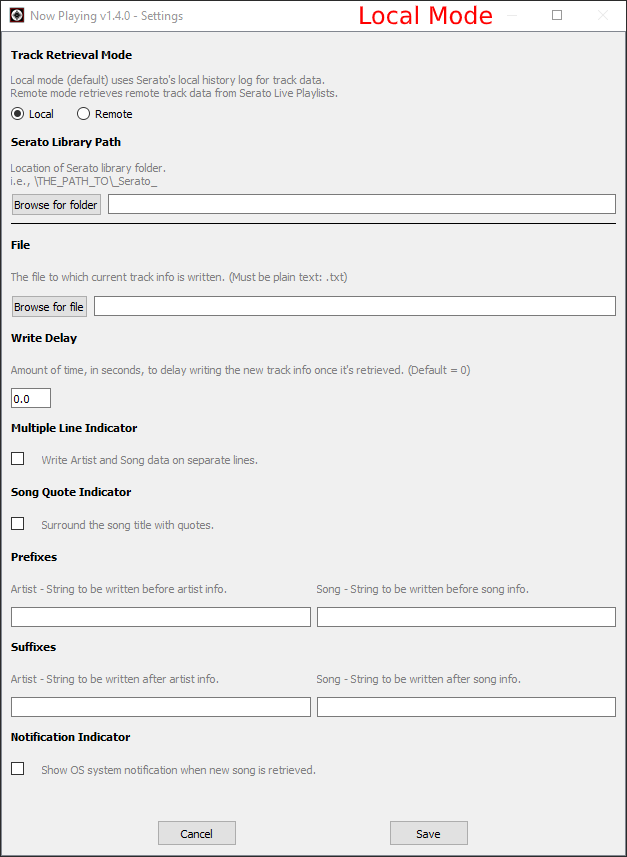
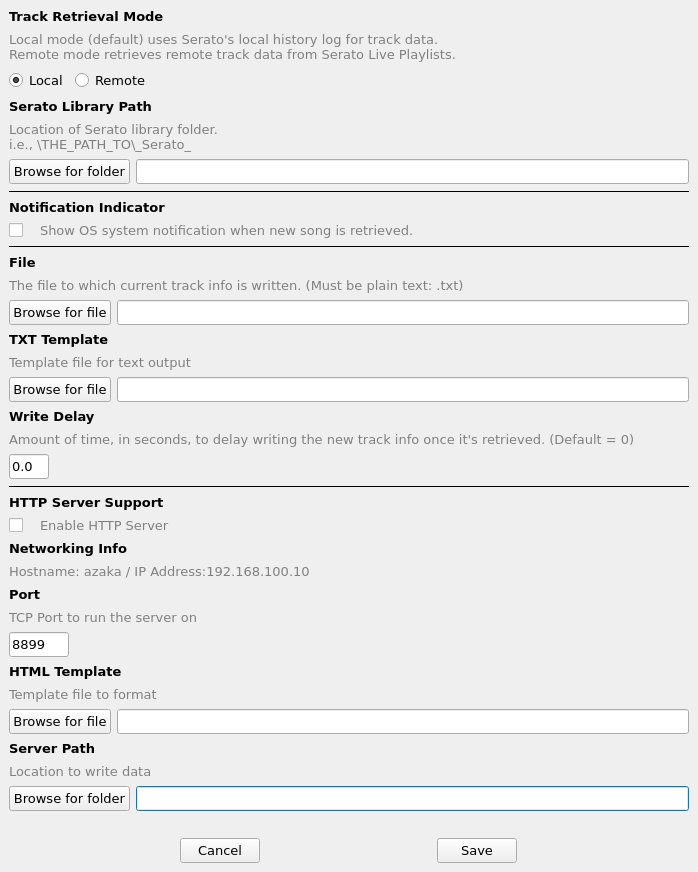
Another round of doc updates:
* Update images to reflect current Settings screen
* Make images relative links so branches work
  while updating docs :)
* Re-arrange some things
* Fix HTTP mode description and add more details
* Add some anchors
* Add some examples!

diff --git a/README.md b/README.md
@@ -60,15 +60,19 @@ Due to security measures in macOS Sierra and later, apps downloaded from outside
 * Unzip the package and copy the entire unzipped folder containing the 'SeratoNowPlaying.exe' file and supporting files to the directory you'd like the app to run from (i.e.: C:\Program Files).
 * Create a new, blank text file with the Notepad app or similar text editor. Name it as you please, and save this text file anywhere you like on your pc and close the text editor.
 
-### First time running the app
+## Usage
 
-That's it. Execute the app from the location where you placed it. On Windows, you may need to right-click and select "Run as Administrator'.
+Start the __Now Playing__ app.from the location where you placed it. On Windows, you may need to right-click and
+select "Run as Administrator'. The app is controlled and configured by accessing the menu from the icon in the
+Windows system tray or Mac menu bar after configuration.
 
-The first time you run the app a settings window will appear. Populate the fields accordingly and press save. Once saved, the app will start polling for new songs. The app can be controlled and exited from the system task tray on Windows or the menu bar icon on macOS.
+However, the first time you run the app a [Settings](#settings) window will appear. Populate the fields accordingly and press
+save. Once saved, the app will start polling for new songs. The app can be controlled and exited from the system task
+tray on Windows or the menu bar icon on macOS.
 
-![Task Tray](https://github.com/e1miran/Now-Playing-Serato/blob/master/git-images/systray.png?raw=true) Windows
+![Task Tray](git-images/systray.png?raw=true) Windows
 
-![Menu Bar](https://github.com/e1miran/Now-Playing-Serato/blob/master/git-images/menubar.png?raw=true) macOS
+![Menu Bar](git-images/menubar.png?raw=true) macOS
 
 ### Uninstallation
 
@@ -76,10 +80,12 @@ The process for uninstalling the app is the same on both platforms.  Simply dele
 
 ## Settings
 
-Upon initial execution of the app, a settings window will appear. Subsequently, the settings can be accessed from the icon in the Windows task tray or Mac menu bar.  The available configuration settings are:
+Upon initial execution of the app, a settings window will appear. Subsequently, the settings can be accessed from the icon in the Windows task tray or Mac menu bar.
+
+### General Settings
 
 * __Track Retrieval Mode__ - Select either Local or Remote mode.  Local is the preferred method of retrieval and the default.
-  * Local mode uses Serato's local history log to acquire the track data.
+  * Local mode uses Serato's local history log to acquire the track data. [How to use Local Mode](#local-mode)
   * Remote mode retrieves remote track data from Serato Live Playlists.  This mode requires constant connection to the internet and a Serato account with Live Playlists enabled. [How to use Remote Mode](#remote-mode)
 
 * __Serato Library Path__ - (_Local Mode Only_) Location of the folder that contains Serato library and history data.  This folder named "\_Serato\_" is created and used by Serato DJ. If you keep your library on an external drive, you will have two "\_Serato\_" folders - one on the external drive and the other in the "Music" folder of your internal drive.  You must select the internal drive folder, as it is the one that contains the history folder and log files.
@@ -96,7 +102,7 @@ Upon initial execution of the app, a settings window will appear. Subsequently, 
 
 * __File__ - This is the file to which the current track info is written
 
-* __TXT Template__ - The [Jinja2 template][https://jinja.palletsprojects.com/en/2.11.x/templates/] file that will be used when the song has been updated.
+* __TXT Template__ - The [Jinja2 template](https://jinja.palletsprojects.com/en/2.11.x/templates/) file that will be used when the song has been updated. See [More on Template Files](#more-on-template-files) below.
 
 * __Write Delay__ - The amount of time, in seconds to delay writing the new track info once it's retrieved. If not populated, it will default to 0 seconds.
   * A setting of zero will update the track info on screen immediately as a new track is detected.  This may be too soon for some DJ's mixing style, so a delay can be added.
@@ -106,24 +112,21 @@ Upon initial execution of the app, a settings window will appear. Subsequently, 
 * __Port__ - The port that the HTTP server will answer, both on localhost and any remote hosts that may query it.  For security reasons,
 this port should be protected by a firewall to limit which hosts will be permitted to connect.
 
-* __HTML Template__ - The [Jinja2 template][https://jinja.palletsprojects.com/en/2.11.x/templates/] file that will be used when the song has been updated.
+* __HTML Template__ - The [Jinja2 template](https://jinja.palletsprojects.com/en/2.11.x/templates/) file that will be used when the song has been updated. See [More on Template Files](#more-on-template-files) below.
 
 * __Server Path__ - Directory to be used to store the web server index file that is created after processing the template.
 
-![Local Mode Settings](https://github.com/e1miran/Now-Playing-Serato/blob/master/git-images/local.png?raw=true)
-![Remote Mode Settings](https://github.com/e1miran/Now-Playing-Serato/blob/master/git-images/remote.png?raw=true)
-
-## Usage
-
-Start the __Now Playing__ app.  The app is controlled and configured by accessing the menu from the icon in the windows system tray or Mac menu bar.
-
 ### Local Mode
+
+![Local Mode Settings](git-images/local.png?raw=true)
 
 Local Mode is used when the __Now Playing__ app is running on the same machine as Serato.  Configure the Serato Library Path
 where Serato is located.  This method is the recommended installation as much more information is available and
 __Now Playing__ is generally more reliablely correct.
 
 ### Remote Mode
+
+![Remote Mode Settings](git-images/remote.png?raw=true)
 
 Remote mode can be used when the streaming PC is not the same as the PC on which Serato DJ is playing but the HTTP Server
 Mode cannot be used.
@@ -141,15 +144,36 @@ due to limitations on the Serato-side.
 
 ### HTTP Server Mode
 
-__Now Playing__ has the ability to serve a web page after a song change.  This option allows users to utilize
-features such as the OBS Browser source for dynamically changing content.  Connecting to __Now Playing__'s web server will give either a web
-page that is empty except for an HTTP refresh directive or a title card.  The title card is generated by taking the template file and replacing
-'$artiststring' or '$songstring' with the values generated by Serato. After serving the title card, it is deleted and the HTTP refresh directives
-are again returned. The title card is regenerated for every song change.
+__Now Playing__ has the ability to serve a web page after a song change.  This option
+allows users to utilize features such as the OBS Browser source for dynamically
+changing content.  There are three URLs supported:
 
-#### More on Template Files
+* /index.html (or /index.htm or just /)
 
-In order to provide maximum formatting flexibility, [Jinja2 template][https://jinja.palletsprojects.com/en/2.11.x/templates/]
+This URL generates either a title card based upon the preconfigured template or
+a refresh document.  The title card will be given exactly once upon connection with
+the refresh document being returned in subsequent connections until a new track has
+been detected.  This process allows for using fades and other HTML tricks.
+
+* /cover.jpg or /cover.png
+
+This URL will return the cover image, if available. It recommended to use the '{{ coverurl }}' template variable
+to determine which one to use. Note that the format (JPEG or PNG) is entirely dependent upon
+the store image in the media.  __Now Playing__ does not do image conversion or support more than JPEG or PNG
+images.
+
+* /favicon.ico
+
+This URL will return __Now Playing__'s icon.
+
+#### Extra Content
+
+For security reasons, __Now Playing__ will ONLY serve either the HTTP refresh page or the titlecard.  Any other content (images,
+CSS, JavaScript libraries, etc) must come from another source.
+
+## More on Template Files
+
+In order to provide maximum formatting flexibility, [Jinja2 template](https://jinja.palletsprojects.com/en/2.11.x/templates/)
 files are used to format the output.  __Now Playing__ provides several example templates that may be modified as necessary
 to suit your needs.  Be aware that some information provided to the templating engine is only available when run in Local
 Mode and only if your songs and videos have the proper IDv3 or equivalent tags in them.  A tool such as
@@ -182,9 +206,72 @@ Currently supported variables:
 
 When HTTP Server mode is active:
 
+| Variable       | Description |
+|:--------------:|:-----------:|
 | coverurl | Location to fetch the cover |
 
-#### Extra Content
+### Template Examples
 
-For security reasons, __Now Playing__ will ONLY serve either the HTTP refresh page or the titlecard.  Any other content (images,
-CSS, JavaScript libraries, etc) must come from another source.
+Let us pretend that [Björk's Jóga](https://musicbrainz.org/recording/83534ada-9f60-4093-bbf3-ca182a03cf8b) was
+the currently playing song.
+
+Given a template like this:
+
+```jinja
+{{ artist }} - {{ title }}
+
+```
+
+__Now Playing__ would generate:
+
+```text
+Björk - Jóga
+```
+
+If the application is running in [local mode](#local-mode), then we could use more a template with
+more content.  A template such as:
+
+```jinja
+Song: "{{ title }}"
+Artist: {{ artist }}
+Album: {{ album }}
+```
+
+would generate:
+
+```text
+Song: "Jóga"
+Artist: Björk
+Album: Homogenic
+```
+
+Since we are using [Jinja2 templates](https://jinja.palletsprojects.com/en/2.11.x/templates/), we
+also have some special effects available to us:
+
+Uppercase:
+
+```jinja
+{{ artist | upper }}
+```
+
+turns into:
+
+```text
+BJÖRK
+```
+
+Maybe our media files are not quite correct and they have 'björk'?  We can easily capitalize them in the template:
+
+```jinja
+{{ artist | capitalize }}
+```
+
+Ta-da:
+
+```text
+Björk
+```
+
+There are many many other things one can do with the Jinja templating system.  Please
+see [the documentation](https://jinja.palletsprojects.com/en/2.11.x/templates/) for more
+information and ideas!
